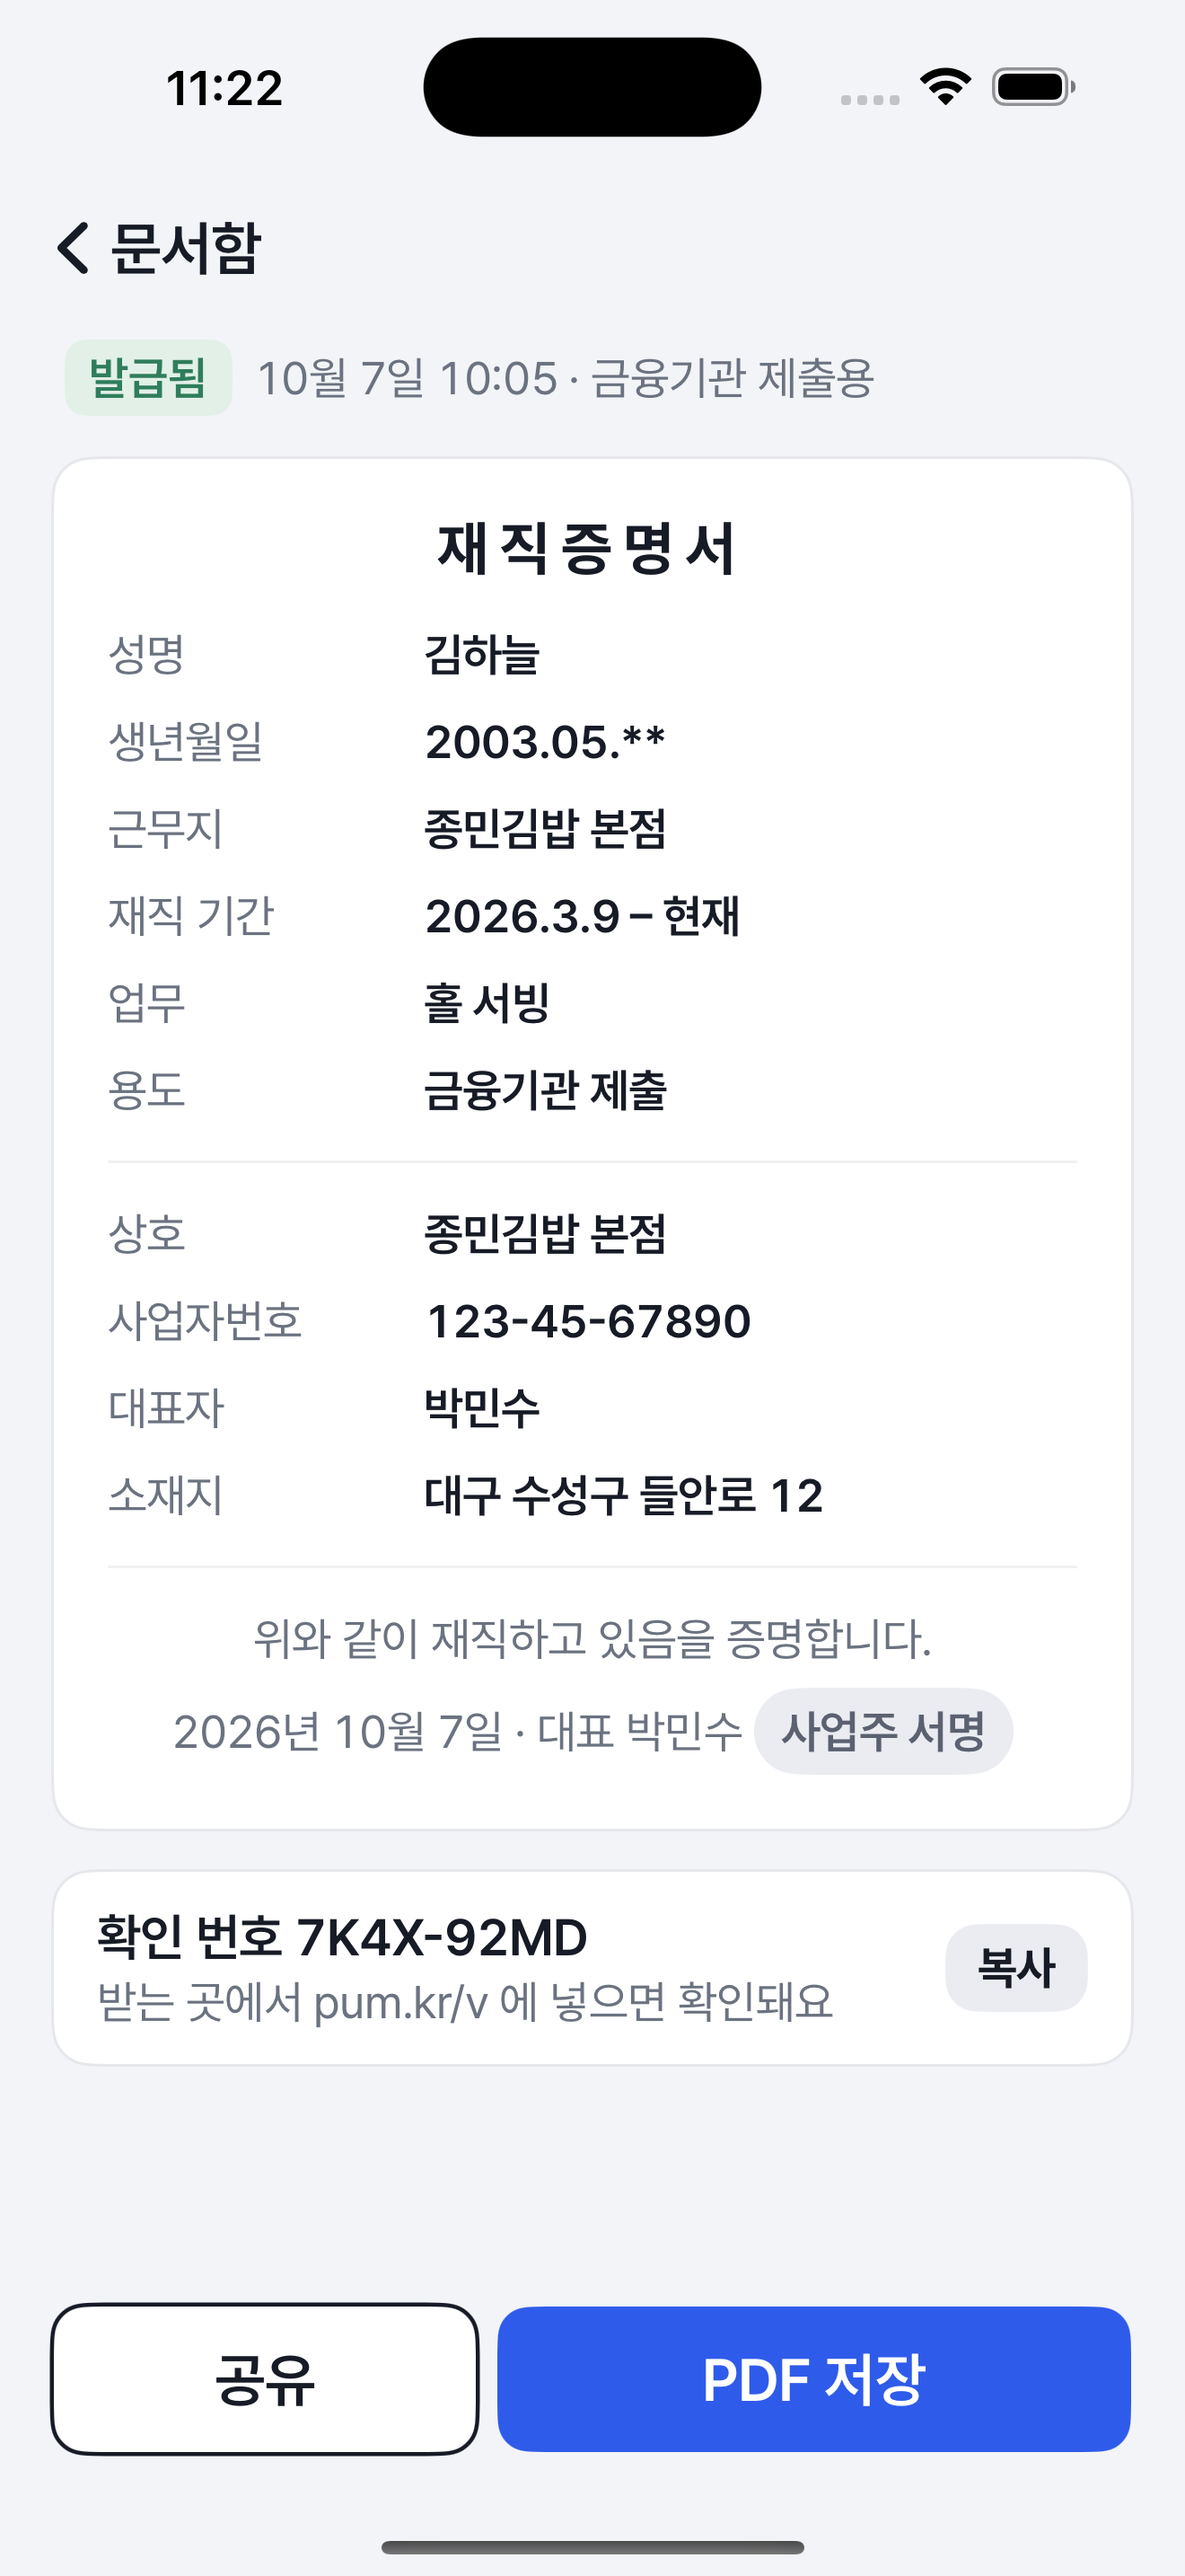
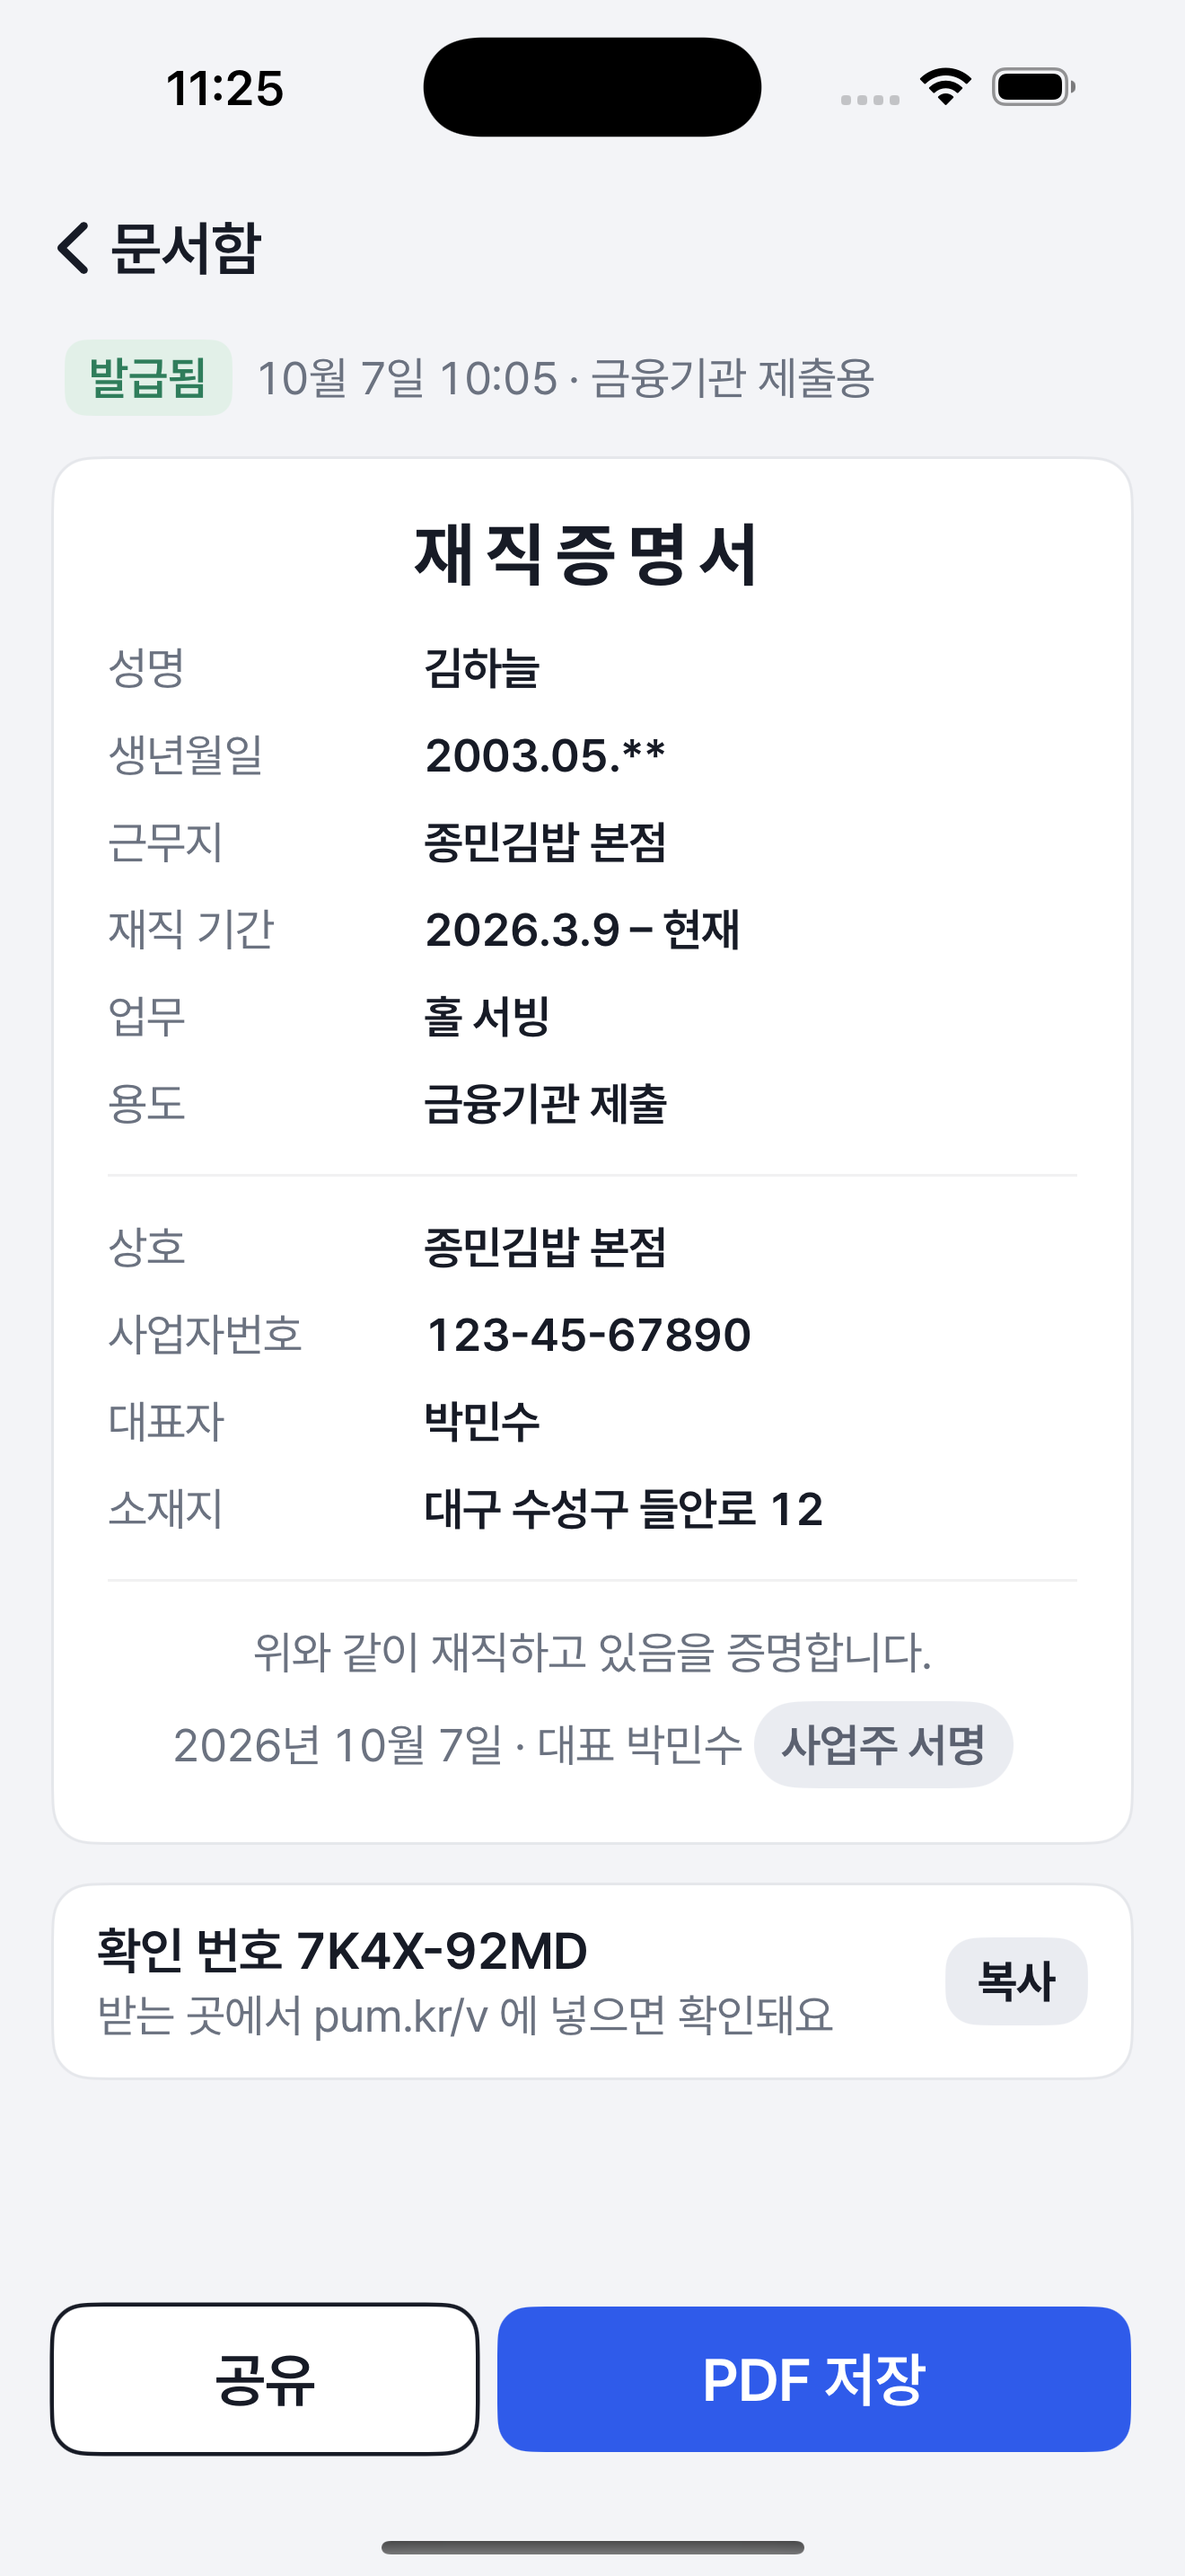
fix(account): 19f QA 반영 — 확인 번호만 한 글자씩 읽기 · 문서 제목 크기
- VoiceOver가 안내 문구까지 한 글자씩 읽던 것 — 번호에만 적용
- 문서 제목 원문 19px → title3(20)

Refs #393 · UI-IOS-19f

diff --git a/Pum/Pum/Features/Account/EmploymentCertIssued/EmploymentCertIssuedView.swift b/Pum/Pum/Features/Account/EmploymentCertIssued/EmploymentCertIssuedView.swift
@@ -89,7 +89,7 @@ struct EmploymentCertIssuedView: View {
         PumCard {
             VStack(alignment: .leading, spacing: PumTokens.Space.s16) {
                 Text(EmploymentCertIssuedState.documentTitle).tracking(PumTokens.Space.s4) // 원문 넓은 자간 — pumText보다 안쪽에
-                    .pumText(.headline, weight: .bold)
+                    .pumText(.title3, weight: .bold) // 원문 19px — 가장 가까운 단계 20
                     .foregroundStyle(PumColor.textPrimary)
                     .frame(maxWidth: .infinity)
                     .accessibilityAddTraits(.isHeader)
@@ -176,8 +176,8 @@ struct EmploymentCertIssuedView: View {
         .fixedSize(horizontal: false, vertical: true)
         .frame(maxWidth: .infinity, alignment: .leading)
         .accessibilityElement(children: .ignore)
-        .accessibilityLabel(Text(state.codeCardSpoken))
-        .speechSpellsOutCharacters()
+        // 번호만 한 글자씩 — 안내 문구는 보통 읽기
+        .accessibilityLabel(Text("\(Text("\(EmploymentCertIssuedState.codeTitle), "))\(Text(state.verifyCode).speechSpellsOutCharacters())\(Text(", \(EmploymentCertIssuedState.verifyHint)"))"))
     }
 
     private var copyButton: some View {

diff --git a/Pum/Pum/Features/Account/EmploymentCertIssued/EmploymentCertIssuedState.swift b/Pum/Pum/Features/Account/EmploymentCertIssued/EmploymentCertIssuedState.swift
@@ -62,8 +62,6 @@ nonisolated struct EmploymentCertIssuedState: Equatable, Sendable {
     var codeText: String { "\(Self.codeTitle) \(verifyCode)" }
     /// 「확인 번호, 7K4X-92MD」
     var codeSpoken: String { "\(Self.codeTitle), \(verifyCode)" }
-    /// 「확인 번호, 7K4X-92MD, 받는 곳에서 …」 — 카드 한 덩어리 읽기
-    var codeCardSpoken: String { "\(codeSpoken), \(Self.verifyHint)" }
     /// 「2026년 10월 7일 · 대표 박민수」 — 뒤에 「사업주 서명」 칩
     var signLineText: String { "\(issueDateText) · 대표 \(ownerName)" }
     /// 「위와 같이 … 증명합니다. 2026년 10월 7일 · 대표 박민수 사업주 서명」
